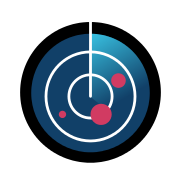
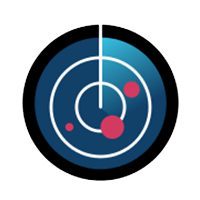
header udpated

diff --git a/discovery/web/templates/header.html b/discovery/web/templates/header.html
@@ -1,5 +1,12 @@
 {% block content %}
-<style></style>
+<style>
+.dropdown:hover .dropdown-menu {
+    display: block;
+}
+.dropdown-menu {
+    margin-top: 0px;
+}
+</style>
 <header id="header">
   <title>{{site_name}}</title>
   <nav class="navbar navbar-expand-md navbar-light bg-light fixed-top">
@@ -18,7 +25,19 @@
     </button>
     <div class="collapse navbar-collapse justify-content-end" id="navbarSupportedContent">
       <ul class="navbar-nav" id="user_link">
-        <li class="nav-item"><a class="nav-link h-link mainTextLight" href="/best-practices">Discovery Guide</a></li>
+        <li class="nav-item d-inline d-md-none"><a class="nav-link h-link mainTextLight" href="/best-practices">Discovery Guide</a></li>
+        <li class="nav-item dropdown d-none d-md-inline">
+          <a class="nav-link dropdown-toggle mainTextLight" href="/best-practices" id="navbarDropdown" role="button" aria-haspopup="true" aria-expanded="false">
+            Discovery Guide
+          </a>
+          <div class="dropdown-menu alert-dark" aria-labelledby="navbarDropdown">
+            <a class="dropdown-item" href="/dataset">Dataset Registry</a>
+            <a class="dropdown-item" href="/guide"><img src="/static/img/dde-logo-o.svg" width="20" height="20" alt="CTSA" title="CTSA Portal"> Discovery Dataset Guide</a>
+            <div class="dropdown-divider"></div>
+            <a class="dropdown-item" href="/guide/outbreak/dataset"><img src="/static/img/outbreak.png" width="20" height="20" alt="Outbreak.info" title="Outbreak.info"> Outbreak.info Dataset Guide</a>
+            <a class="dropdown-item" href="/guide/niaid"><img src="/static/img/niaid/icon.svg" width="20" height="20" alt="NIAID" title="NIAID Data Portal"> NIAID Dataset Guide</a>
+          </div>
+        </li>
         <li class="nav-item"><a class="nav-link h-link mainTextDark" href="/schema-playground">Schema Playground</a></li>
         <template v-if="userInfo && !userInfo.login">
           <li class='nav-item'><a class='nav-link' :href='"/login?next="+window.location.pathname'>Login</a></li>